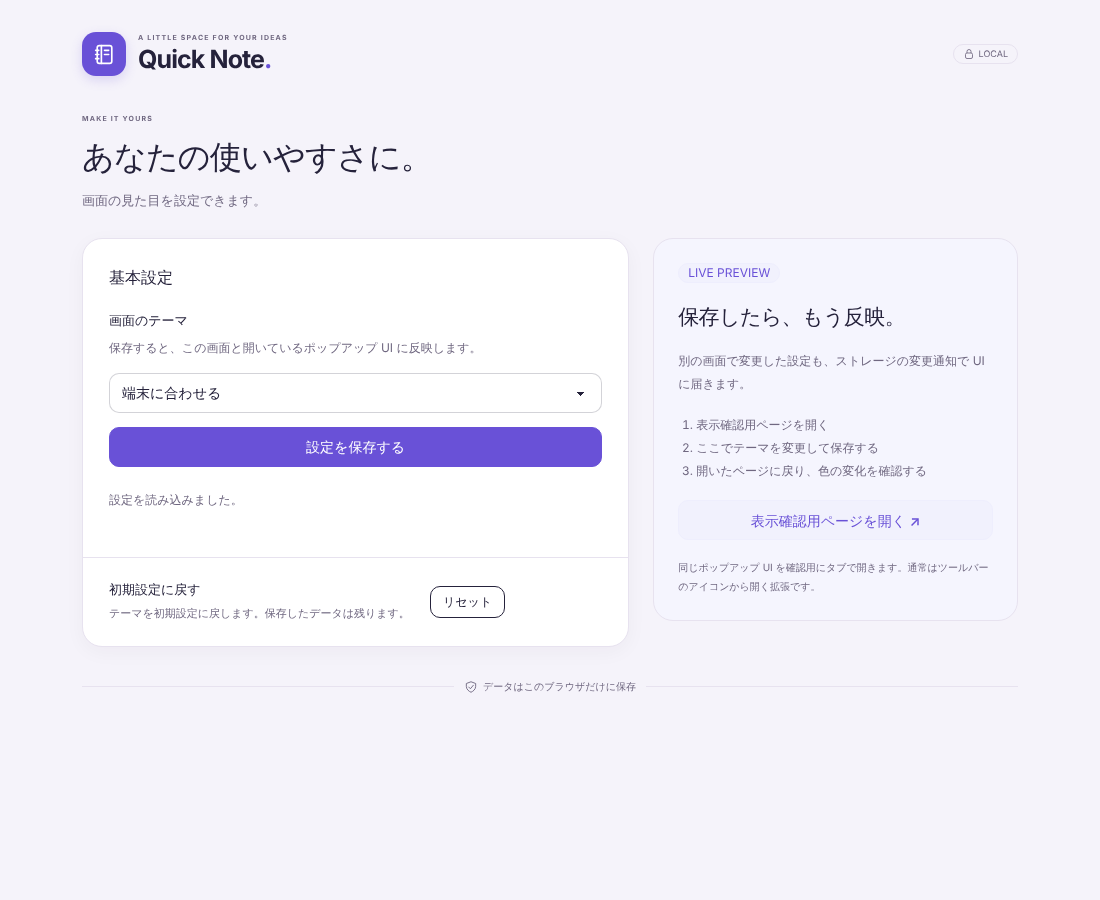
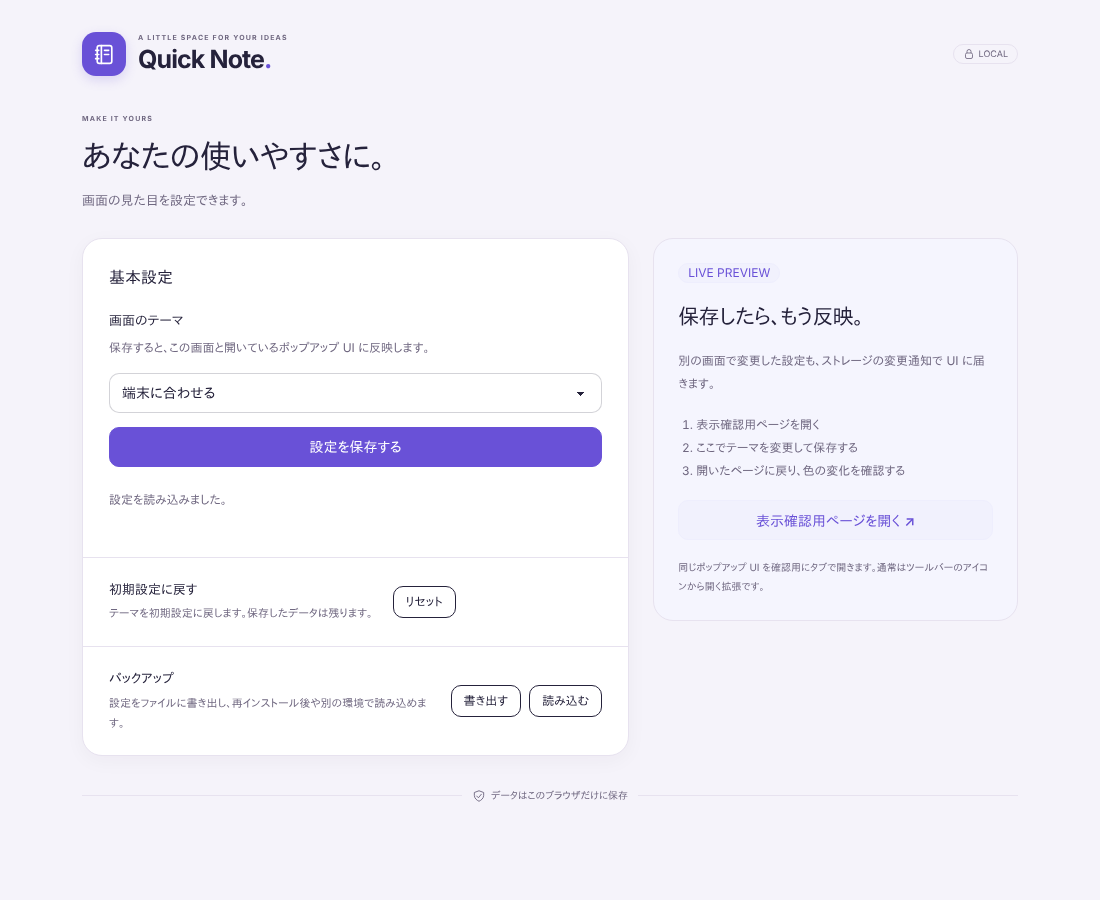
feat: export and import settings from the options page
Settings are written as a versioned JSON file and read back through an import controller that checks the format, the version and each value before saving; invalid files leave the settings unchanged. Open screens follow through the usual change notification. The options screenshots are retaken.

diff --git a/src/ui/screens/options/options.tsx b/src/ui/screens/options/options.tsx
@@ -2,6 +2,7 @@ import { createSignal, onCleanup } from "solid-js";
 import type { Settings } from "../../../features/settings/settings";
 import type { SettingsActions, SettingsChanges } from "../../../features/settings/ports";
 import { applyTheme, connectSettings } from "../../settings";
+import { ValidationError } from "../../../lib/validation";
 import { useI18n } from "../../i18n";
 import type { MessageKey } from "../../i18n";
 
@@ -15,6 +16,7 @@ export interface OptionsVariant {
 export function Options(props: { actions: SettingsActions; changes: SettingsChanges; variant: OptionsVariant }) {
   const { t } = useI18n();
   let dialog!: HTMLDialogElement;
+  let fileInput!: HTMLInputElement;
   let disposed = false;
   const [theme, setTheme] = createSignal<string>("system");
   const [ready, setReady] = createSignal(false);
@@ -44,7 +46,7 @@ export function Options(props: { actions: SettingsActions; changes: SettingsChan
   }));
   onCleanup(() => { disposed = true; });
 
-  async function perform(operation: () => Promise<Settings>, message: MessageKey) {
+  async function perform(operation: () => Promise<Settings>, message: MessageKey, failure: (error: unknown) => MessageKey = () => "optionsSaveFailed") {
     if (busy()) return;
     setBusy(true);
     setStatus("statusSaving");
@@ -53,11 +55,35 @@ export function Options(props: { actions: SettingsActions; changes: SettingsChan
       if (disposed) return;
       render(value);
       setStatus(message);
-    } catch {
-      if (!disposed) setStatus("optionsSaveFailed");
+    } catch (error) {
+      if (!disposed) setStatus(failure(error));
     } finally {
       if (!disposed) setBusy(false);
     }
+  }
+
+  // Reading and saving the file is the screen's job; the feature defines and validates the backup format.
+  async function exportBackup() {
+    if (busy()) return;
+    try {
+      const backup = await props.actions.exportBackup(undefined);
+      const url = URL.createObjectURL(new Blob([JSON.stringify(backup, null, 2) + "\n"], { type: "application/json" }));
+      const link = document.createElement("a");
+      link.href = url;
+      link.download = "settings-backup.json";
+      link.click();
+      setTimeout(() => URL.revokeObjectURL(url), 0);
+      if (!disposed) setStatus("optionsExported");
+    } catch {
+      if (!disposed) setStatus("optionsSaveFailed");
+    }
+  }
+  async function importBackup(file: File) {
+    let content: unknown;
+    try { content = JSON.parse(await file.text()); }
+    catch { if (!disposed) setStatus("optionsImportInvalid"); return; }
+    await perform(() => props.actions.importBackup(content), "optionsImported",
+      (error) => error instanceof ValidationError ? "optionsImportInvalid" : "optionsSaveFailed");
   }
 
   return (
@@ -88,6 +114,15 @@ export function Options(props: { actions: SettingsActions; changes: SettingsChan
           <div class="reset-section">
             <div><h3>{t("optionsResetHeading")}</h3><p>{t("optionsResetHelp")}</p></div>
             <button class="btn btn-outline btn-sm" type="button" disabled={busy()} onClick={() => { if (!busy()) dialog.showModal(); }}>{t("optionsResetButton")}</button>
+          </div>
+          <div class="reset-section backup-section">
+            <div><h3>{t("optionsBackupHeading")}</h3><p>{t("optionsBackupHelp")}</p></div>
+            <div class="backup-actions">
+              <button id="export-settings" class="btn btn-outline btn-sm" type="button" disabled={busy()} onClick={() => void exportBackup()}>{t("optionsExport")}</button>
+              <button class="btn btn-outline btn-sm" type="button" disabled={busy()} onClick={() => fileInput.click()}>{t("optionsImport")}</button>
+              <input ref={fileInput} id="import-settings" type="file" accept="application/json,.json" hidden
+                onChange={(event) => { const file = event.currentTarget.files?.[0]; event.currentTarget.value = ""; if (file) void importBackup(file); }} />
+            </div>
           </div>
         </section>
         <aside class="card live-guide" aria-labelledby="live-title">

diff --git a/tests/e2e/settings.test.ts b/tests/e2e/settings.test.ts
@@ -1,3 +1,4 @@
+import { readFileSync } from "node:fs";
 import { afterEach, describe, expect, it } from "vitest";
 import type { LoadedExtension, Variant } from "./support/extension";
 import { launchExtension, screenPath } from "./support/extension";
@@ -20,5 +21,29 @@ describe.each<Variant>(["popup", "sidepanel"])("%s", (variant) => {
     await expect.poll(() => screen.evaluate(() => document.documentElement.dataset.theme)).toBe("notebook-dark");
     await options.reload();
     await expect.poll(() => options.locator("#theme").inputValue()).toBe("dark");
+  });
+
+  it("書き出した設定ファイルを読み込むと、開いている画面にも反映される", async () => {
+    extension = await launchExtension({ variant });
+    const screen = await extension.open(screenPath(extension));
+    const options = await extension.open(extension.manifest.options_ui!.page);
+    const theme = options.locator("#theme");
+    await expect.poll(() => theme.isEnabled()).toBe(true);
+    await theme.selectOption("light");
+    await options.locator("form button[type=submit]").click();
+    await expect.poll(() => screen.evaluate(() => document.documentElement.dataset.theme)).toBe("notebook");
+
+    const [download] = await Promise.all([options.waitForEvent("download"), options.locator("#export-settings").click()]);
+    const exported = JSON.parse(readFileSync((await download.path())!, "utf8")) as { settings: { theme: string } };
+    expect(exported.settings.theme).toBe("light");
+
+    const dark = { ...exported, settings: { ...exported.settings, theme: "dark" } };
+    await options.locator("#import-settings").setInputFiles({ name: "backup.json", mimeType: "application/json", buffer: Buffer.from(JSON.stringify(dark)) });
+    await expect.poll(() => screen.evaluate(() => document.documentElement.dataset.theme)).toBe("notebook-dark");
+    await expect.poll(() => theme.inputValue()).toBe("dark");
+
+    await options.locator("#import-settings").setInputFiles({ name: "broken.json", mimeType: "application/json", buffer: Buffer.from("{ not json") });
+    await options.waitForTimeout(300);
+    expect(await theme.inputValue()).toBe("dark");
   });
 });

diff --git a/src/features/settings/compose.ts b/src/features/settings/compose.ts
@@ -2,14 +2,20 @@ import type { SettingsActions, SettingsRepository } from "./ports";
 import { createLoadSettings } from "./use-cases/load";
 import { createSaveSettings } from "./use-cases/save";
 import { createResetSettings } from "./use-cases/reset";
+import { createExportBackup } from "./use-cases/export";
+import { createImportBackup } from "./use-cases/import";
 import { createLoadController } from "./controllers/load";
 import { createSaveController } from "./controllers/save";
 import { createResetController } from "./controllers/reset";
+import { createExportController } from "./controllers/export";
+import { createImportController } from "./controllers/import";
 
 export function createSettingsApplication(repository: SettingsRepository): SettingsActions {
   return {
     load: createLoadController(createLoadSettings(repository)),
     save: createSaveController(createSaveSettings(repository)),
     reset: createResetController(createResetSettings(repository)),
+    exportBackup: createExportController(createExportBackup(repository)),
+    importBackup: createImportController(createImportBackup(repository)),
   };
 }

diff --git a/src/features/settings/controllers/import.ts b/src/features/settings/controllers/import.ts
@@ -1,0 +1,20 @@
+import { validatedAction, ValidationError } from "../../../lib/validation";
+import type { Validator } from "../../../lib/validation";
+import { SETTINGS_BACKUP_FORMAT, settingsTheme } from "../settings";
+import type { ImportBackup, ImportBackupInput } from "../use-cases/import";
+
+// The parsed content of a backup file the user chose: anything may be in it.
+const input: Validator<ImportBackupInput> = {
+  parse(raw) {
+    if (typeof raw !== "object" || raw === null || Array.isArray(raw) ||
+        !("format" in raw) || raw.format !== SETTINGS_BACKUP_FORMAT || !("version" in raw) || raw.version !== 1 ||
+        !("settings" in raw) || typeof raw.settings !== "object" || raw.settings === null || !("theme" in raw.settings)) {
+      throw new ValidationError(`Expected a ${SETTINGS_BACKUP_FORMAT} version 1 backup.`);
+    }
+    return { theme: settingsTheme(raw.settings.theme) };
+  },
+};
+
+export function createImportController(execute: ImportBackup) {
+  return validatedAction(input, execute);
+}

diff --git a/src/features/settings/settings.ts b/src/features/settings/settings.ts
@@ -14,3 +14,12 @@ export function settingsTheme(raw: unknown): Theme {
   }
   return raw;
 }
+
+// A file a user can keep and load back. The format name and version let a later release recognize and
+// convert older backups; the settings inside keep the same rules as saved settings.
+export const SETTINGS_BACKUP_FORMAT = "chrome-ext-base/settings";
+export interface SettingsBackup { format: typeof SETTINGS_BACKUP_FORMAT; version: 1; settings: Settings }
+
+export function toBackup(settings: Settings): SettingsBackup {
+  return { format: SETTINGS_BACKUP_FORMAT, version: 1, settings: { ...settings } };
+}

diff --git a/src/features/settings/use-cases/import.ts b/src/features/settings/use-cases/import.ts
@@ -1,0 +1,14 @@
+import type { Settings } from "../settings";
+import type { SettingsRepository } from "../ports";
+
+export type ImportBackupInput = Settings;
+export type ImportBackupOutput = Settings;
+export type ImportBackup = (input: ImportBackupInput) => Promise<ImportBackupOutput>;
+
+// The controller has already unpacked and validated the backup; importing replaces the current settings.
+export function createImportBackup(repository: SettingsRepository): ImportBackup {
+  return async (input) => {
+    await repository.save(input);
+    return repository.load();
+  };
+}

diff --git a/src/ui/screens/options/options.css b/src/ui/screens/options/options.css
@@ -17,6 +17,7 @@
   .reset-section h3 { font-size: 13px; }
   .reset-section p { font-size: 11px; color: var(--ui-muted); line-height: 1.8; margin-top: 5px; }
   .reset-section button { flex-shrink: 0; }
+  .backup-actions { display: flex; flex-wrap: wrap; gap: 8px; flex-shrink: 0; }
   .live-guide { background: color-mix(in oklch, var(--color-primary) 6%, var(--color-base-100)); border: 1px solid var(--color-base-300); }
   .live-guide .card-body { padding: 24px; gap: 18px; }
   .live-guide h3 { font-size: 21px; font-weight: 700; letter-spacing: -.6px; }

diff --git a/src/features/settings/controllers/export.ts b/src/features/settings/controllers/export.ts
@@ -1,0 +1,13 @@
+import { validatedAction, ValidationError } from "../../../lib/validation";
+import type { Validator } from "../../../lib/validation";
+import type { ExportBackup, ExportBackupInput } from "../use-cases/export";
+
+const input: Validator<ExportBackupInput> = {
+  parse(raw) {
+    if (raw !== undefined) throw new ValidationError("This operation takes no input.");
+  },
+};
+
+export function createExportController(execute: ExportBackup) {
+  return validatedAction(input, execute);
+}

diff --git a/src/features/settings/use-cases/export.ts b/src/features/settings/use-cases/export.ts
@@ -1,0 +1,11 @@
+import type { SettingsBackup } from "../settings";
+import { toBackup } from "../settings";
+import type { SettingsRepository } from "../ports";
+
+export type ExportBackupInput = void;
+export type ExportBackupOutput = SettingsBackup;
+export type ExportBackup = (input: ExportBackupInput) => Promise<ExportBackupOutput>;
+
+export function createExportBackup(repository: SettingsRepository): ExportBackup {
+  return async (_input) => toBackup(await repository.load());
+}

diff --git a/src/features/settings/ports.ts b/src/features/settings/ports.ts
@@ -1,9 +1,11 @@
-import type { Settings } from "./settings";
+import type { Settings, SettingsBackup } from "./settings";
 
 export interface SettingsActions {
   load(input: unknown): Promise<Settings>;
   save(input: unknown): Promise<Settings>;
   reset(input: unknown): Promise<Settings>;
+  exportBackup(input: unknown): Promise<SettingsBackup>;
+  importBackup(input: unknown): Promise<Settings>;
 }
 
 export interface SettingsRepository {

diff --git a/docs/screenshots/README.md b/docs/screenshots/README.md
@@ -5,7 +5,7 @@
 - `options-light.png` / `options-dark.png`: 設定画面の初期表示。
 - `sidepanel-light.png` / `sidepanel-dark.png`: サイドパネル用画面の初期表示。
 - 末尾が `-en` のファイル: 同じ画面の英語表示。
-- 取得日: 2026-11-05（日本時間）。日本語の画像は 2026-11-04 の撮影から変化がないことを確認しています。
+- 取得日: 2026-11-05（日本時間）。設定画面は、書き出し・読み込みを追加した後に撮り直しています。
 - 対象: `pnpm run build:popup` / `pnpm run build:sidepanel` で生成した `dist/popup/` / `dist/sidepanel/` のブラウザプレビュー。
 - ブラウザ: Chromium 153.0.8010.12、デバイススケール 1。
 - ポップアップは文書幅 384 CSS px、高さ上限 600 px の body。設定画面は幅 1100 px の全ページ。
